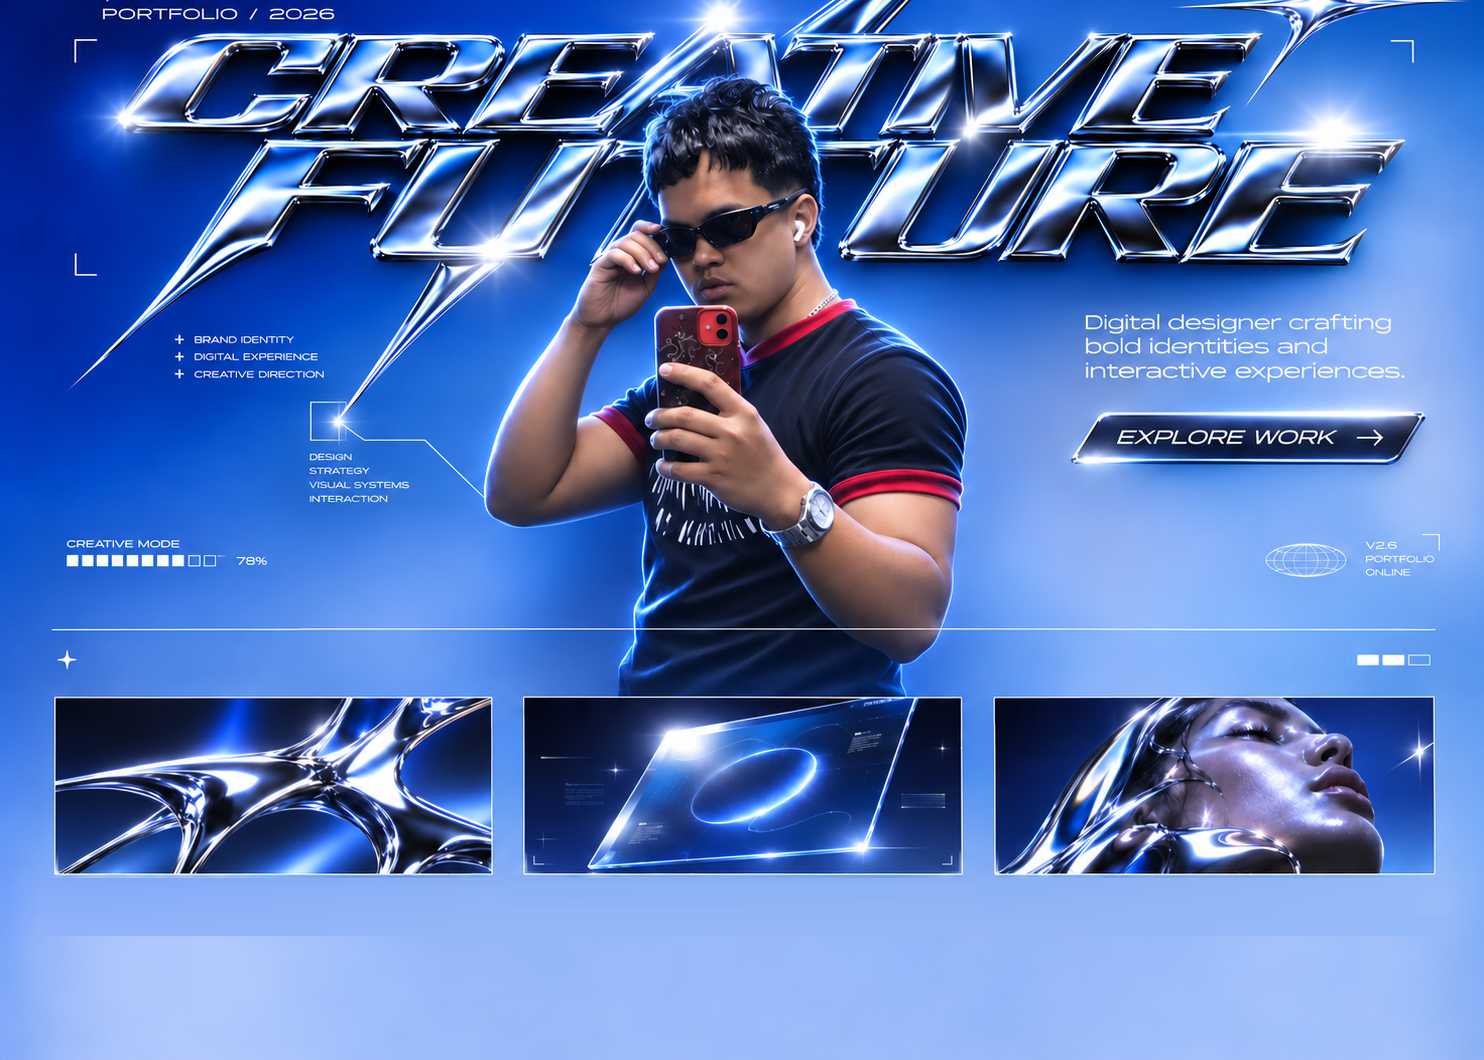
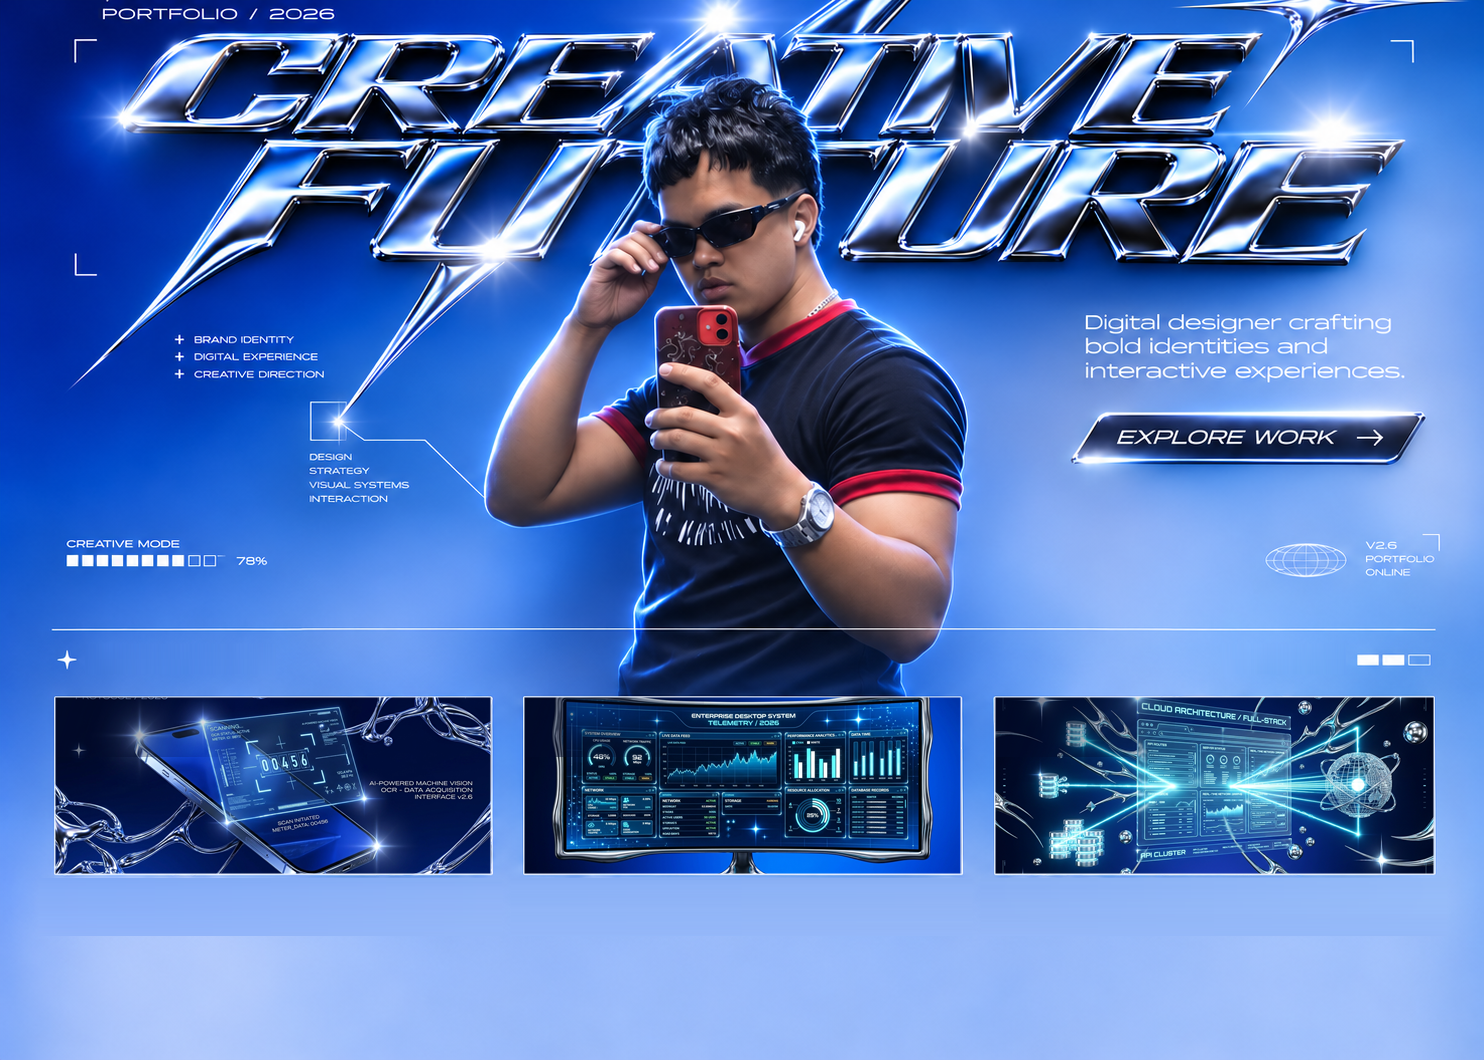
added another project

Changed region(s): [[0.031, 0.6538, 0.9919, 0.8406]]

diff --git a/src/data/portfolio.ts b/src/data/portfolio.ts
@@ -242,8 +242,205 @@ export const projects: Project[] = [
     artClass: 'art-audit-portal',
   },
   {
-    slug: 'scilab-reserve',
+    slug: 'owe-debt-collect',
     number: '02',
+    category: 'ANDROID & WEB',
+    tag: 'KOTLIN COMPOSE + NEXT.JS 15 + SUPABASE + TAILWIND v4',
+    title: 'OWE. / DEBT COLLECT',
+    subtitle: 'Peer-to-Peer Loan & Repayment Ecosystem with Kotlin Compose Android App & Next.js 15 Admin Console',
+    year: '2026',
+    client: 'DUA / OWE Financial Utility Ecosystem',
+    role: 'Lead Android (Kotlin / Jetpack Compose) & Full-Stack Next.js Developer',
+    summary:
+      'A cross-platform peer-to-peer loan and debt management ecosystem pairing a native Android mobile application (built in Kotlin 2.1, Jetpack Compose Material 3, Ktor, and Supabase Kotlin SDK v3) with a Next.js 15, React 19, TypeScript, and Tailwind CSS v4 Web Administration Console—synchronized in real time via Supabase PostgreSQL, Realtime channels, and dynamic JSONB remote config.',
+    challenge:
+      'Informal lending and borrowing between individuals often suffers from disputed balances, lost GCash/bank reference numbers, and forgotten installment dates. Both lenders and borrowers needed a shared, transparent ledger where loan terms, installment schedules, and payment confirmations are mutually verified—backed by an administrative operations console for auditing, support triage, and remote app configuration.',
+    solution:
+      'Engineered a dual-application ecosystem on Supabase. Built OWE_Mobile natively for Android using Kotlin 2.1 and Jetpack Compose (Material 3), featuring a unified Lender ("Money I Lent") and Borrower ("Money I Owe") workflow, automated Flat-Rate (₱) and Percentage (%) installment calculators, 7-day expiring Borrower Invite Codes (DC-XXXXXX), GCash/Maya/Bank payment submission with lender verification, cascading PSGC Philippine address selection, offline LocalDiskCache, and Google AdMob + OWE Pro subscription tiers. Paired it with OWE_Admin in Next.js 15 (App Router, Turbopack, Server Actions) and React 19 for portfolio collection analytics, immutable audit logs, support ticket triage, real-time broadcast announcements, and remote feature flags.',
+    deliverables: [
+      'Native Android App (Kotlin 2.1, Jetpack Compose Material 3, Navigation Compose, MVVM)',
+      'Next.js 15 & React 19 Admin Console (App Router, Server Actions, TypeScript, Tailwind CSS v4)',
+      'Supabase PostgreSQL Views (debt_summary), RLS Policies, Auth & Realtime Channels',
+      'Dual Lender & Borrower Engine with 7-Day Expiring Invite Codes (DC-XXXXXX)',
+      'Installment Calculator (Flat Rate ₱ / Percentage %, 3m–24m) & Payment Verification Flow',
+      'Remote App Config (app_config JSONB Flags), AdMob Integration & OWE Pro Subscriptions',
+    ],
+    metrics: [
+      { label: 'MOBILE STACK', value: 'KOTLIN COMPOSE' },
+      { label: 'ADMIN STACK', value: 'NEXT.JS 15 + TS' },
+      { label: 'BACKEND', value: 'SUPABASE REALTIME' },
+    ],
+    techStack: [
+      'Kotlin 2.1',
+      'Jetpack Compose (Material 3)',
+      'Next.js 15 (App Router & Turbopack)',
+      'React 19 & TypeScript 5',
+      'Tailwind CSS v4',
+      'Supabase (PostgreSQL, Auth, Realtime, SSR)',
+      'Ktor Client & Kotlinx Serialization',
+      'Google AdMob SDK',
+    ],
+    screenshotGroups: [
+      {
+        overline: 'ROLE MODULE 01 // KOTLIN & JETPACK COMPOSE ANDROID APP (18 SCREENS)',
+        title: 'Lender & Borrower',
+        titleAccent: 'Android app.',
+        portrait: true,
+        description:
+          'Native Android application built with Kotlin 2.1, Jetpack Compose (Material 3), Ktor, and Supabase Kotlin SDK—unifying Lender and Borrower workflows with invite-code loan linking, installment calculation, GCash/Maya payment verification, PSGC address lookup, and OWE Pro upgrades.',
+        items: [
+          {
+            src: '/assets/projects/owe/mobile-onboarding.png',
+            tag: 'APP 01 // ONBOARDING WALKTHROUGH',
+            caption: 'Interactive onboarding slide ("01 · BORROW & LEND — Borrow & Lend with Clarity") introducing instant loan creation and invite-code linking.',
+          },
+          {
+            src: '/assets/projects/owe/mobile-login.png',
+            tag: 'APP 02 // AUTHENTICATION GATEWAY',
+            caption: 'OWE. sign-in screen featuring the signature owl emblem ("BORROW · TRACK · SETTLE"), email/password login, Remember Me, and password recovery.',
+          },
+          {
+            src: '/assets/projects/owe/mobile-register.png',
+            tag: 'APP 03 // ACCOUNT REGISTRATION & PSGC ADDRESS',
+            caption: 'Structured account creation capturing Personal Information and cascading Philippine Standard Geographic Code (PSGC) Address Details (Province, Municipality/City, Barangay).',
+          },
+          {
+            src: '/assets/projects/owe/mobile-reset-password.png',
+            tag: 'APP 04 // OTP PASSWORD RECOVERY',
+            caption: 'Password reset flow dispatching a 6-digit email verification code via Supabase Auth.',
+          },
+          {
+            src: '/assets/projects/owe/mobile-home-lender.png',
+            tag: 'APP 05 // LENDER HOME & PORTFOLIO DASHBOARD',
+            caption: 'Home dashboard with Money I Lent / Money I Owe mode switcher, Total Outstanding card (₱125,000.00), Total Lent (₱174,620.00), Collected (₱49,620.00), status filters, and active debt progress.',
+          },
+          {
+            src: '/assets/projects/owe/mobile-new-debt.png',
+            tag: 'APP 06 // CREATE DEBT & INSTALLMENT CALCULATOR',
+            caption: 'New Debt builder supporting Flat Rate (₱) and Percentage (%) interest, duration chips (3m, 6m, 12m, 24m), monthly Pay Day (1–31), and live Monthly Payment & Total to Collect calculation.',
+          },
+          {
+            src: '/assets/projects/owe/mobile-share-invite-code.png',
+            tag: 'APP 07 // BORROWER INVITE CODE GENERATOR',
+            caption: 'Post-creation screen generating a 7-day expiring Borrower Invite Code (DC-73772B) with direct sharing via Messenger, WhatsApp, SMS, Copy Link, or code regeneration.',
+          },
+          {
+            src: '/assets/projects/owe/mobile-notifications.png',
+            tag: 'APP 08 // REAL-TIME NOTIFICATIONS FEED',
+            caption: 'Real-time alert center notifying the lender when a borrower accepts and joins a loan record using their invite code.',
+          },
+          {
+            src: '/assets/projects/owe/mobile-all-debts-lender.png',
+            tag: 'APP 09 // LENDER MASTER DEBTS LEDGER',
+            caption: 'All Debts tab with All Debts / Money Lent / Money Owed filters, pending invite alert banner, Active/Overdue/Fully Paid counters, and status-badged loan cards.',
+          },
+          {
+            src: '/assets/projects/owe/mobile-debt-details-lender.png',
+            tag: 'APP 10 // LENDER DEBT DETAILS & SCHEDULE',
+            caption: 'Lender loan breakdown displaying Borrower info, ₱125,000.00 remaining balance (16% paid), 2 of 12 paid installments (₱12,500.00/mo), next due date, and confirmed GCash payments.',
+          },
+          {
+            src: '/assets/projects/owe/mobile-debt-payment-records.png',
+            tag: 'APP 11 // CONFIRMED INSTALLMENT RECORDS',
+            caption: 'Verified payment history view tracking each installment amount, GCash payment method, reference number, and confirmation status.',
+          },
+          {
+            src: '/assets/projects/owe/mobile-recent-activity.png',
+            tag: 'APP 12 // MONTHLY COLLECTION & ACTIVITY TIMELINE',
+            caption: 'Recent Activity stream with category filters (All Activity, Payments, Debts Created, Pending), Collected This Month banner (₱49,620.00 · 9 events), and chronological ledger updates.',
+          },
+          {
+            src: '/assets/projects/owe/mobile-borrower-debts.png',
+            tag: 'APP 13 // BORROWER DEBTS OVERVIEW',
+            caption: 'Borrower-side All Debts view displaying active and fully paid loans owed to lender Dua Orlina with real-time progress bars.',
+          },
+          {
+            src: '/assets/projects/owe/mobile-borrower-debt-details.png',
+            tag: 'APP 14 // BORROWER REPAYMENT BREAKDOWN',
+            caption: 'Borrower loan detail view showing the Lender profile (Dua Orlina), remaining balance, monthly installment schedule, payment history, and Submit Payment CTA.',
+          },
+          {
+            src: '/assets/projects/owe/mobile-submit-payment.png',
+            tag: 'APP 15 // SUBMIT INSTALLMENT PAYMENT',
+            caption: 'Borrower payment submission form with auto-filled installment amount, Pay full balance shortcut, Payment Method pills (Cash, GCash, Maya, Bank Transfer, Other), Reference Number input, and installment tracker (Installment 3 of 12).',
+          },
+          {
+            src: '/assets/projects/owe/mobile-profile-settings.png',
+            tag: 'APP 16 // VERIFIED PROFILE & OWE PRO UPGRADE',
+            caption: 'User profile and settings screen featuring Verified Account badge, Upgrade to OWE Pro banner (₱99/mo for unlimited debts, PDF export & no ads), security controls, and build version.',
+          },
+          {
+            src: '/assets/projects/owe/mobile-change-password-modal.png',
+            tag: 'APP 17 // SECURITY & PASSWORD UPDATE MODAL',
+            caption: 'In-app Change Password bottom sheet dialog validating current and new account credentials.',
+          },
+          {
+            src: '/assets/projects/owe/mobile-help-support-modal.png',
+            tag: 'APP 18 // IN-APP HELP & SUPPORT TICKET MODAL',
+            caption: 'Direct Help & Support ticket composer allowing users to submit issues straight into the OWE Admin Support Tickets queue.',
+          },
+        ],
+      },
+      {
+        overline: 'ROLE MODULE 02 // NEXT.JS 15 & TAILWIND v4 WEB ADMIN CONSOLE (9 SCREENS)',
+        title: 'Next.js 15 Admin',
+        titleAccent: 'web console.',
+        description:
+          'Full-stack operations and analytics console built with Next.js 15 (App Router, Turbopack, Server Actions), React 19, TypeScript, Tailwind CSS v4, and Supabase Service-Role SSR—monitoring portfolio collection health, users, debts, payments, audit trails, support tickets, real-time announcements, and dynamic JSONB app config.',
+        items: [
+          {
+            src: '/assets/projects/owe/admin-dashboard.png',
+            tag: 'ADMIN 01 // EXECUTIVE OVERVIEW & COLLECTION ANALYTICS',
+            caption: 'Admin Overview featuring Total Collected (₱49,620.00), KPI cards, Collection Rate radial gauge (28% Collected of ₱174,894.29 portfolio), 6-Month Collections bar chart, Portfolio Health breakdown, Payments by Method (GCash), and Recent Debt Audit Activity.',
+          },
+          {
+            src: '/assets/projects/owe/admin-users.png',
+            tag: 'ADMIN 02 // REGISTERED USERS & PSGC DIRECTORY',
+            caption: 'Paginated user profiles table displaying Full Name, Supabase User UUID, Phone number, PSGC Barangay/Municipality/Province location, and Joined date.',
+          },
+          {
+            src: '/assets/projects/owe/admin-debts.png',
+            tag: 'ADMIN 03 // MASTER DEBTS SUMMARY LEDGER',
+            caption: 'All debt records queried from the PostgreSQL debt_summary view showing Outstanding Balance (₱125,274.29), Overdue count, Total, Paid, Remaining balance, Due Date, and status badges (Awaiting Borrower, Active, Paid).',
+          },
+          {
+            src: '/assets/projects/owe/admin-payments.png',
+            tag: 'ADMIN 04 // PAYMENT VERIFICATION & REFERENCE LOG',
+            caption: 'Master ledger of submitted, confirmed, and rejected borrower payments displaying Amount, Payment Method (GCASH), Reference Number, Date, Status badge, and Proof.',
+          },
+          {
+            src: '/assets/projects/owe/admin-subscriptions.png',
+            tag: 'ADMIN 05 // OWE PRO SUBSCRIPTIONS & BILLING',
+            caption: 'Subscription monitoring module tracking OWE Pro user plans, billing statuses, start dates, and expiration timestamps.',
+          },
+          {
+            src: '/assets/projects/owe/admin-audit-logs.png',
+            tag: 'ADMIN 06 // IMMUTABLE DEBT AUDIT LOGS',
+            caption: 'Immutable audit trail logging system-wide events (Invite Code Generated, Debt Joined, Payment Confirmed, Payment Rejected, Debt Paid) with Debt title/UUID, Actor UUID, and timestamp.',
+          },
+          {
+            src: '/assets/projects/owe/admin-support-tickets.png',
+            tag: 'ADMIN 07 // SUPPORT TICKETS TRIAGE CONSOLE',
+            caption: 'Customer support management table with status filter tabs (All, Open, In Progress, Resolved, Closed), user email, ticket message, and live status dropdown actions.',
+          },
+          {
+            src: '/assets/projects/owe/admin-announcements.png',
+            tag: 'ADMIN 08 // REAL-TIME MOBILE BROADCAST ANNOUNCEMENTS',
+            caption: 'Broadcast composer and history manager for publishing Info, Promo, Warning, and Maintenance banners directly to the Android app via Supabase Realtime.',
+          },
+          {
+            src: '/assets/projects/owe/admin-app-config.png',
+            tag: 'ADMIN 09 // REMOTE APP CONFIG & FEATURE FLAGS',
+            caption: 'Dynamic JSONB remote configuration panel (app_config) controlling ads_enabled, free_active_debt_limit, interstitial_cooldown_minutes, maintenance_mode, pro_lifetime_price, and pro_monthly_price in real time.',
+          },
+        ],
+      },
+    ],
+    artClass: 'art-owe',
+  },
+  {
+    slug: 'scilab-reserve',
+    number: '03',
     category: 'WEB',
     tag: 'SUPABASE + FLUTTER DESKTOP + WEB ECOSYSTEM',
     title: 'SCILAB RESERVE 3.0',
@@ -518,7 +715,7 @@ export const projects: Project[] = [
   },
   {
     slug: 'water-meter-billing',
-    number: '03',
+    number: '04',
     category: 'ANDROID & DESKTOP',
     tag: 'ANDROID STUDIO + JAVAFX + ROBOFLOW VISION + POSTGRESQL',
     title: 'WATER METER BILLING & READING',
@@ -669,7 +866,7 @@ export const projects: Project[] = [
   },
   {
     slug: 'plspcart',
-    number: '04',
+    number: '05',
     category: 'WEB',
     tag: 'PHP + POSTGRESQL / CAMPUS E-COMMERCE',
     title: 'PLSPCART',

diff --git a/src/styles/global.css b/src/styles/global.css
@@ -393,8 +393,8 @@ button:focus-visible {
 
 .hero-domain-card {
   position: absolute;
-  top: 65.5%;
-  width: 29.8%;
+  top: 65.75%;
+  width: 29.45%;
   z-index: 4;
   display: flex;
   flex-direction: column;
@@ -402,21 +402,21 @@ button:focus-visible {
 }
 
 .hero-project-one {
-  left: 3.15%;
+  left: 3.71%;
 }
 
 .hero-project-two {
-  left: 34.85%;
+  left: 35.31%;
 }
 
 .hero-project-three {
-  left: 66.55%;
+  left: 67.05%;
 }
 
 .hero-domain-box {
   position: relative;
   width: 100%;
-  aspect-ratio: 442 / 180;
+  aspect-ratio: 437 / 177;
   display: flex;
   align-items: flex-end;
   justify-content: flex-end;
@@ -714,6 +714,15 @@ button:focus-visible {
   background-image:
     linear-gradient(180deg, rgba(4, 20, 66, 0.45) 0%, rgba(7, 66, 184, 0.28) 50%, rgba(2, 11, 43, 0.72) 100%),
     url('/assets/projects/audit-portal/dashboard.jpg');
+  background-size: cover;
+  background-position: top center;
+  background-repeat: no-repeat;
+}
+
+.art-owe {
+  background-image:
+    linear-gradient(180deg, rgba(4, 20, 66, 0.38) 0%, rgba(7, 66, 184, 0.22) 50%, rgba(2, 11, 43, 0.72) 100%),
+    url('/assets/projects/owe/admin-dashboard.png');
   background-size: cover;
   background-position: top center;
   background-repeat: no-repeat;
